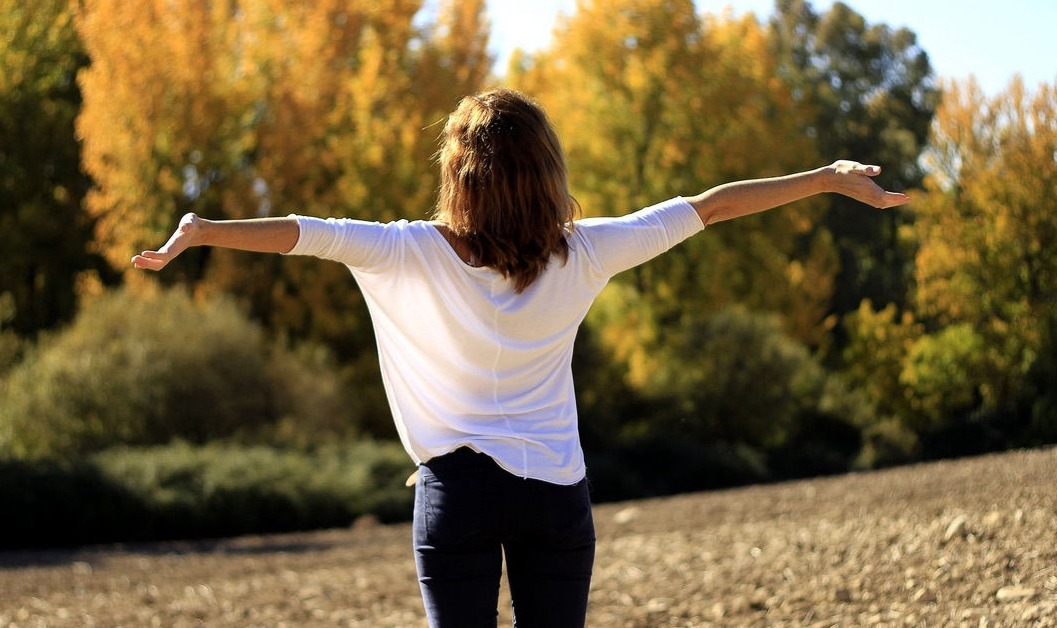
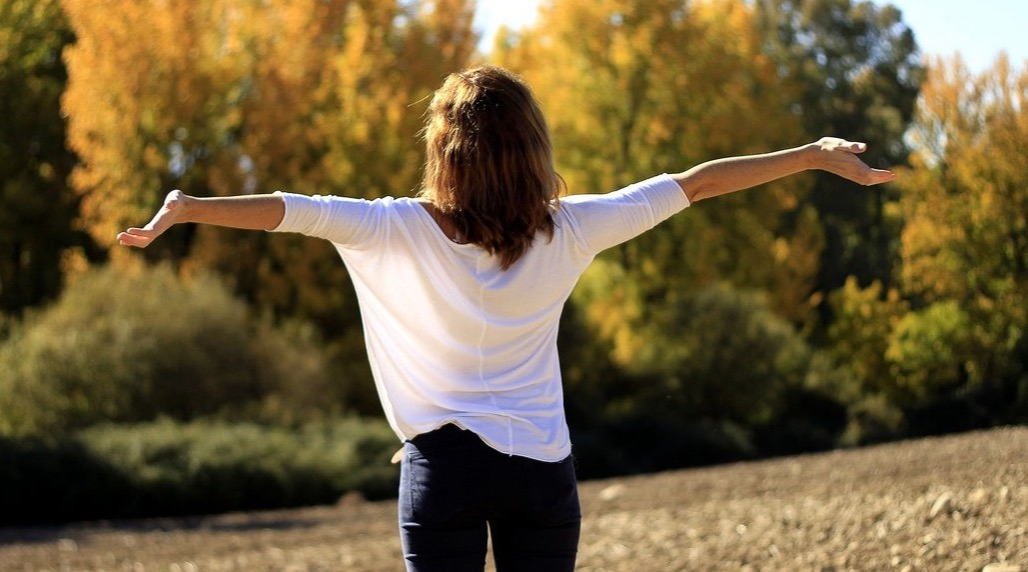
create github pages

diff --git a/index.html b/index.html
@@ -62,15 +62,15 @@ body{font-family: Poppins;}blockquote{border-color: #fe7902;}div[submit-success]
 					
 				<a href="https://www.facebook.com/DansenStem" target="_blank">
 						<div class="iconfont-wrapper">
-							<span class="amp-iconfont fa-facebook-square fa"><svg width="100%" height="100%" viewBox="0 0 1792 1792" xmlns="http://www.w3.org/2000/svg" fill="currentColor"><path d="M1376 128q119 0 203.5 84.5t84.5 203.5v960q0 119-84.5 203.5t-203.5 84.5h-188v-595h199l30-232h-229v-148q0-56 23.5-84t91.5-28l122-1v-207q-63-9-178-9-136 0-217.5 80t-81.5 226v171h-200v232h200v595h-532q-119 0-203.5-84.5t-84.5-203.5v-960q0-119 84.5-203.5t203.5-84.5h960z"></path></svg></span>
+							<span class="amp-iconfont fa-facebook-square fa"><svg width="24" height="24" viewBox="0 0 1792 1792" xmlns="http://www.w3.org/2000/svg" fill="currentColor"><path d="M1376 128q119 0 203.5 84.5t84.5 203.5v960q0 119-84.5 203.5t-203.5 84.5h-188v-595h199l30-232h-229v-148q0-56 23.5-84t91.5-28l122-1v-207q-63-9-178-9-136 0-217.5 80t-81.5 226v171h-200v232h200v595h-532q-119 0-203.5-84.5t-84.5-203.5v-960q0-119 84.5-203.5t203.5-84.5h960z"></path></svg></span>
 						</div>
 					</a><a href="https://www.instagram.com/petra_welboren/" target="_blank">
 						<div class="iconfont-wrapper">
-							<span class="amp-iconfont fa-instagram fa"><svg width="100%" height="100%" viewBox="0 0 1792 1792" xmlns="http://www.w3.org/2000/svg" fill="currentColor"><path d="M1152 896q0-106-75-181t-181-75-181 75-75 181 75 181 181 75 181-75 75-181zm138 0q0 164-115 279t-279 115-279-115-115-279 115-279 279-115 279 115 115 279zm108-410q0 38-27 65t-65 27-65-27-27-65 27-65 65-27 65 27 27 65zm-502-220q-7 0-76.5-.5t-105.5 0-96.5 3-103 10-71.5 18.5q-50 20-88 58t-58 88q-11 29-18.5 71.5t-10 103-3 96.5 0 105.5.5 76.5-.5 76.5 0 105.5 3 96.5 10 103 18.5 71.5q20 50 58 88t88 58q29 11 71.5 18.5t103 10 96.5 3 105.5 0 76.5-.5 76.5.5 105.5 0 96.5-3 103-10 71.5-18.5q50-20 88-58t58-88q11-29 18.5-71.5t10-103 3-96.5 0-105.5-.5-76.5.5-76.5 0-105.5-3-96.5-10-103-18.5-71.5q-20-50-58-88t-88-58q-29-11-71.5-18.5t-103-10-96.5-3-105.5 0-76.5.5zm768 630q0 229-5 317-10 208-124 322t-322 124q-88 5-317 5t-317-5q-208-10-322-124t-124-322q-5-88-5-317t5-317q10-208 124-322t322-124q88-5 317-5t317 5q208 10 322 124t124 322q5 88 5 317z"></path></svg></span>
+							<span class="amp-iconfont fa-instagram fa"><svg width="24" height="24" viewBox="0 0 1792 1792" xmlns="http://www.w3.org/2000/svg" fill="currentColor"><path d="M1152 896q0-106-75-181t-181-75-181 75-75 181 75 181 181 75 181-75 75-181zm138 0q0 164-115 279t-279 115-279-115-115-279 115-279 279-115 279 115 115 279zm108-410q0 38-27 65t-65 27-65-27-27-65 27-65 65-27 65 27 27 65zm-502-220q-7 0-76.5-.5t-105.5 0-96.5 3-103 10-71.5 18.5q-50 20-88 58t-58 88q-11 29-18.5 71.5t-10 103-3 96.5 0 105.5.5 76.5-.5 76.5 0 105.5 3 96.5 10 103 18.5 71.5q20 50 58 88t88 58q29 11 71.5 18.5t103 10 96.5 3 105.5 0 76.5-.5 76.5.5 105.5 0 96.5-3 103-10 71.5-18.5q50-20 88-58t58-88q11-29 18.5-71.5t10-103 3-96.5 0-105.5-.5-76.5.5-76.5 0-105.5-3-96.5-10-103-18.5-71.5q-20-50-58-88t-88-58q-29-11-71.5-18.5t-103-10-96.5-3-105.5 0-76.5.5zm768 630q0 229-5 317-10 208-124 322t-322 124q-88 5-317 5t-317-5q-208-10-322-124t-124-322q-5-88-5-317t5-317q10-208 124-322t322-124q88-5 317-5t317 5q208 10 322 124t124 322q5 88 5 317z"></path></svg></span>
 						</div>
 					</a><a href="https://www.linkedin.com/in/petra-welboren-7a86068/" target="_blank">
 						<div class="iconfont-wrapper">
-							<span class="amp-iconfont fa-linkedin-square fa"><svg width="100%" height="100%" viewBox="0 0 1792 1792" xmlns="http://www.w3.org/2000/svg" fill="currentColor"><path d="M365 1414h231v-694h-231v694zm246-908q-1-52-36-86t-93-34-94.5 34-36.5 86q0 51 35.5 85.5t92.5 34.5h1q59 0 95-34.5t36-85.5zm585 908h231v-398q0-154-73-233t-193-79q-136 0-209 117h2v-101h-231q3 66 0 694h231v-388q0-38 7-56 15-35 45-59.5t74-24.5q116 0 116 157v371zm468-998v960q0 119-84.5 203.5t-203.5 84.5h-960q-119 0-203.5-84.5t-84.5-203.5v-960q0-119 84.5-203.5t203.5-84.5h960q119 0 203.5 84.5t84.5 203.5z"></path></svg></span>
+							<span class="amp-iconfont fa-linkedin-square fa"><svg width="24" height="24" viewBox="0 0 1792 1792" xmlns="http://www.w3.org/2000/svg" fill="currentColor"><path d="M365 1414h231v-694h-231v694zm246-908q-1-52-36-86t-93-34-94.5 34-36.5 86q0 51 35.5 85.5t92.5 34.5h1q59 0 95-34.5t36-85.5zm585 908h231v-398q0-154-73-233t-193-79q-136 0-209 117h2v-101h-231q3 66 0 694h231v-388q0-38 7-56 15-35 45-59.5t74-24.5q116 0 116 157v371zm468-998v960q0 119-84.5 203.5t-203.5 84.5h-960q-119 0-203.5-84.5t-84.5-203.5v-960q0-119 84.5-203.5t203.5-84.5h960q119 0 203.5 84.5t84.5 203.5z"></path></svg></span>
 						</div>
 					</a></div>
 				<!-- SOCIAL ICON END -->
@@ -111,15 +111,15 @@ body{font-family: Poppins;}blockquote{border-color: #fe7902;}div[submit-success]
 					
 				<a href="https://www.facebook.com/DansenStem" target="_blank">
 						<div class="iconfont-wrapper">
-							<span class="amp-iconfont fa-facebook-square fa"><svg width="100%" height="100%" viewBox="0 0 1792 1792" xmlns="http://www.w3.org/2000/svg" fill="currentColor"><path d="M1376 128q119 0 203.5 84.5t84.5 203.5v960q0 119-84.5 203.5t-203.5 84.5h-188v-595h199l30-232h-229v-148q0-56 23.5-84t91.5-28l122-1v-207q-63-9-178-9-136 0-217.5 80t-81.5 226v171h-200v232h200v595h-532q-119 0-203.5-84.5t-84.5-203.5v-960q0-119 84.5-203.5t203.5-84.5h960z"></path></svg></span>
+							<span class="amp-iconfont fa-facebook-square fa"><svg width="24" height="24" viewBox="0 0 1792 1792" xmlns="http://www.w3.org/2000/svg" fill="currentColor"><path d="M1376 128q119 0 203.5 84.5t84.5 203.5v960q0 119-84.5 203.5t-203.5 84.5h-188v-595h199l30-232h-229v-148q0-56 23.5-84t91.5-28l122-1v-207q-63-9-178-9-136 0-217.5 80t-81.5 226v171h-200v232h200v595h-532q-119 0-203.5-84.5t-84.5-203.5v-960q0-119 84.5-203.5t203.5-84.5h960z"></path></svg></span>
 						</div>
 					</a><a href="https://www.instagram.com/petra_welboren/" target="_blank">
 						<div class="iconfont-wrapper">
-							<span class="amp-iconfont fa-instagram fa"><svg width="100%" height="100%" viewBox="0 0 1792 1792" xmlns="http://www.w3.org/2000/svg" fill="currentColor"><path d="M1152 896q0-106-75-181t-181-75-181 75-75 181 75 181 181 75 181-75 75-181zm138 0q0 164-115 279t-279 115-279-115-115-279 115-279 279-115 279 115 115 279zm108-410q0 38-27 65t-65 27-65-27-27-65 27-65 65-27 65 27 27 65zm-502-220q-7 0-76.5-.5t-105.5 0-96.5 3-103 10-71.5 18.5q-50 20-88 58t-58 88q-11 29-18.5 71.5t-10 103-3 96.5 0 105.5.5 76.5-.5 76.5 0 105.5 3 96.5 10 103 18.5 71.5q20 50 58 88t88 58q29 11 71.5 18.5t103 10 96.5 3 105.5 0 76.5-.5 76.5.5 105.5 0 96.5-3 103-10 71.5-18.5q50-20 88-58t58-88q11-29 18.5-71.5t10-103 3-96.5 0-105.5-.5-76.5.5-76.5 0-105.5-3-96.5-10-103-18.5-71.5q-20-50-58-88t-88-58q-29-11-71.5-18.5t-103-10-96.5-3-105.5 0-76.5.5zm768 630q0 229-5 317-10 208-124 322t-322 124q-88 5-317 5t-317-5q-208-10-322-124t-124-322q-5-88-5-317t5-317q10-208 124-322t322-124q88-5 317-5t317 5q208 10 322 124t124 322q5 88 5 317z"></path></svg></span>
+							<span class="amp-iconfont fa-instagram fa"><svg width="24" height="24" viewBox="0 0 1792 1792" xmlns="http://www.w3.org/2000/svg" fill="currentColor"><path d="M1152 896q0-106-75-181t-181-75-181 75-75 181 75 181 181 75 181-75 75-181zm138 0q0 164-115 279t-279 115-279-115-115-279 115-279 279-115 279 115 115 279zm108-410q0 38-27 65t-65 27-65-27-27-65 27-65 65-27 65 27 27 65zm-502-220q-7 0-76.5-.5t-105.5 0-96.5 3-103 10-71.5 18.5q-50 20-88 58t-58 88q-11 29-18.5 71.5t-10 103-3 96.5 0 105.5.5 76.5-.5 76.5 0 105.5 3 96.5 10 103 18.5 71.5q20 50 58 88t88 58q29 11 71.5 18.5t103 10 96.5 3 105.5 0 76.5-.5 76.5.5 105.5 0 96.5-3 103-10 71.5-18.5q50-20 88-58t58-88q11-29 18.5-71.5t10-103 3-96.5 0-105.5-.5-76.5.5-76.5 0-105.5-3-96.5-10-103-18.5-71.5q-20-50-58-88t-88-58q-29-11-71.5-18.5t-103-10-96.5-3-105.5 0-76.5.5zm768 630q0 229-5 317-10 208-124 322t-322 124q-88 5-317 5t-317-5q-208-10-322-124t-124-322q-5-88-5-317t5-317q10-208 124-322t322-124q88-5 317-5t317 5q208 10 322 124t124 322q5 88 5 317z"></path></svg></span>
 						</div>
 					</a><a href="https://www.linkedin.com/in/petra-welboren-7a86068/" target="_blank">
 						<div class="iconfont-wrapper">
-							<span class="amp-iconfont fa-linkedin-square fa"><svg width="100%" height="100%" viewBox="0 0 1792 1792" xmlns="http://www.w3.org/2000/svg" fill="currentColor"><path d="M365 1414h231v-694h-231v694zm246-908q-1-52-36-86t-93-34-94.5 34-36.5 86q0 51 35.5 85.5t92.5 34.5h1q59 0 95-34.5t36-85.5zm585 908h231v-398q0-154-73-233t-193-79q-136 0-209 117h2v-101h-231q3 66 0 694h231v-388q0-38 7-56 15-35 45-59.5t74-24.5q116 0 116 157v371zm468-998v960q0 119-84.5 203.5t-203.5 84.5h-960q-119 0-203.5-84.5t-84.5-203.5v-960q0-119 84.5-203.5t203.5-84.5h960q119 0 203.5 84.5t84.5 203.5z"></path></svg></span>
+							<span class="amp-iconfont fa-linkedin-square fa"><svg width="24" height="24" viewBox="0 0 1792 1792" xmlns="http://www.w3.org/2000/svg" fill="currentColor"><path d="M365 1414h231v-694h-231v694zm246-908q-1-52-36-86t-93-34-94.5 34-36.5 86q0 51 35.5 85.5t92.5 34.5h1q59 0 95-34.5t36-85.5zm585 908h231v-398q0-154-73-233t-193-79q-136 0-209 117h2v-101h-231q3 66 0 694h231v-388q0-38 7-56 15-35 45-59.5t74-24.5q116 0 116 157v371zm468-998v960q0 119-84.5 203.5t-203.5 84.5h-960q-119 0-203.5-84.5t-84.5-203.5v-960q0-119 84.5-203.5t203.5-84.5h960q119 0 203.5 84.5t84.5 203.5z"></path></svg></span>
 						</div>
 					</a></div>
 				<!-- SOCIAL ICON END -->
@@ -197,7 +197,7 @@ body{font-family: Poppins;}blockquote{border-color: #fe7902;}div[submit-success]
                     
                 </amp-img>
             </div><div class="image">
-                <amp-img class="carousel-img mobirise-loader" src="assets/images/inspiration-gc355157fe-1922-694x521.jpeg" layout="fill" alt="Mobirise" width="4.674220963172805" height="3">
+                <amp-img class="carousel-img mobirise-loader" src="assets/images/whatsapp-image-2023-07-07-at-15.58.03-1086x724.jpeg" layout="fill" alt="Mobirise" width="5.391608391608392" height="3">
                     <div class="mbr-overlay"></div>
                     <div class="container">
                         <h2 class="mbr-section-title align-center mbr-fonts-style mbr-bold mbr-white display-1">RUIMTE EN OVERVLOED</h2>

diff --git a/page14.html b/page14.html
@@ -63,15 +63,15 @@ body{font-family: Poppins;}blockquote{border-color: #fe7902;}div[submit-success]
 					
 				<a href="https://www.facebook.com/DansenStem" target="_blank">
 						<div class="iconfont-wrapper">
-							<span class="amp-iconfont fa-facebook-square fa"><svg width="24" height="24" viewBox="0 0 1792 1792" xmlns="http://www.w3.org/2000/svg" fill="currentColor"><path d="M1376 128q119 0 203.5 84.5t84.5 203.5v960q0 119-84.5 203.5t-203.5 84.5h-188v-595h199l30-232h-229v-148q0-56 23.5-84t91.5-28l122-1v-207q-63-9-178-9-136 0-217.5 80t-81.5 226v171h-200v232h200v595h-532q-119 0-203.5-84.5t-84.5-203.5v-960q0-119 84.5-203.5t203.5-84.5h960z"></path></svg></span>
+							<span class="amp-iconfont fa-facebook-square fa"><svg width="100%" height="100%" viewBox="0 0 1792 1792" xmlns="http://www.w3.org/2000/svg" fill="currentColor"><path d="M1376 128q119 0 203.5 84.5t84.5 203.5v960q0 119-84.5 203.5t-203.5 84.5h-188v-595h199l30-232h-229v-148q0-56 23.5-84t91.5-28l122-1v-207q-63-9-178-9-136 0-217.5 80t-81.5 226v171h-200v232h200v595h-532q-119 0-203.5-84.5t-84.5-203.5v-960q0-119 84.5-203.5t203.5-84.5h960z"></path></svg></span>
 						</div>
 					</a><a href="https://www.instagram.com/petra_welboren/" target="_blank">
 						<div class="iconfont-wrapper">
-							<span class="amp-iconfont fa-instagram fa"><svg width="24" height="24" viewBox="0 0 1792 1792" xmlns="http://www.w3.org/2000/svg" fill="currentColor"><path d="M1152 896q0-106-75-181t-181-75-181 75-75 181 75 181 181 75 181-75 75-181zm138 0q0 164-115 279t-279 115-279-115-115-279 115-279 279-115 279 115 115 279zm108-410q0 38-27 65t-65 27-65-27-27-65 27-65 65-27 65 27 27 65zm-502-220q-7 0-76.5-.5t-105.5 0-96.5 3-103 10-71.5 18.5q-50 20-88 58t-58 88q-11 29-18.5 71.5t-10 103-3 96.5 0 105.5.5 76.5-.5 76.5 0 105.5 3 96.5 10 103 18.5 71.5q20 50 58 88t88 58q29 11 71.5 18.5t103 10 96.5 3 105.5 0 76.5-.5 76.5.5 105.5 0 96.5-3 103-10 71.5-18.5q50-20 88-58t58-88q11-29 18.5-71.5t10-103 3-96.5 0-105.5-.5-76.5.5-76.5 0-105.5-3-96.5-10-103-18.5-71.5q-20-50-58-88t-88-58q-29-11-71.5-18.5t-103-10-96.5-3-105.5 0-76.5.5zm768 630q0 229-5 317-10 208-124 322t-322 124q-88 5-317 5t-317-5q-208-10-322-124t-124-322q-5-88-5-317t5-317q10-208 124-322t322-124q88-5 317-5t317 5q208 10 322 124t124 322q5 88 5 317z"></path></svg></span>
+							<span class="amp-iconfont fa-instagram fa"><svg width="100%" height="100%" viewBox="0 0 1792 1792" xmlns="http://www.w3.org/2000/svg" fill="currentColor"><path d="M1152 896q0-106-75-181t-181-75-181 75-75 181 75 181 181 75 181-75 75-181zm138 0q0 164-115 279t-279 115-279-115-115-279 115-279 279-115 279 115 115 279zm108-410q0 38-27 65t-65 27-65-27-27-65 27-65 65-27 65 27 27 65zm-502-220q-7 0-76.5-.5t-105.5 0-96.5 3-103 10-71.5 18.5q-50 20-88 58t-58 88q-11 29-18.5 71.5t-10 103-3 96.5 0 105.5.5 76.5-.5 76.5 0 105.5 3 96.5 10 103 18.5 71.5q20 50 58 88t88 58q29 11 71.5 18.5t103 10 96.5 3 105.5 0 76.5-.5 76.5.5 105.5 0 96.5-3 103-10 71.5-18.5q50-20 88-58t58-88q11-29 18.5-71.5t10-103 3-96.5 0-105.5-.5-76.5.5-76.5 0-105.5-3-96.5-10-103-18.5-71.5q-20-50-58-88t-88-58q-29-11-71.5-18.5t-103-10-96.5-3-105.5 0-76.5.5zm768 630q0 229-5 317-10 208-124 322t-322 124q-88 5-317 5t-317-5q-208-10-322-124t-124-322q-5-88-5-317t5-317q10-208 124-322t322-124q88-5 317-5t317 5q208 10 322 124t124 322q5 88 5 317z"></path></svg></span>
 						</div>
 					</a><a href="https://www.linkedin.com/in/petra-welboren-7a86068/" target="_blank">
 						<div class="iconfont-wrapper">
-							<span class="amp-iconfont fa-linkedin-square fa"><svg width="24" height="24" viewBox="0 0 1792 1792" xmlns="http://www.w3.org/2000/svg" fill="currentColor"><path d="M365 1414h231v-694h-231v694zm246-908q-1-52-36-86t-93-34-94.5 34-36.5 86q0 51 35.5 85.5t92.5 34.5h1q59 0 95-34.5t36-85.5zm585 908h231v-398q0-154-73-233t-193-79q-136 0-209 117h2v-101h-231q3 66 0 694h231v-388q0-38 7-56 15-35 45-59.5t74-24.5q116 0 116 157v371zm468-998v960q0 119-84.5 203.5t-203.5 84.5h-960q-119 0-203.5-84.5t-84.5-203.5v-960q0-119 84.5-203.5t203.5-84.5h960q119 0 203.5 84.5t84.5 203.5z"></path></svg></span>
+							<span class="amp-iconfont fa-linkedin-square fa"><svg width="100%" height="100%" viewBox="0 0 1792 1792" xmlns="http://www.w3.org/2000/svg" fill="currentColor"><path d="M365 1414h231v-694h-231v694zm246-908q-1-52-36-86t-93-34-94.5 34-36.5 86q0 51 35.5 85.5t92.5 34.5h1q59 0 95-34.5t36-85.5zm585 908h231v-398q0-154-73-233t-193-79q-136 0-209 117h2v-101h-231q3 66 0 694h231v-388q0-38 7-56 15-35 45-59.5t74-24.5q116 0 116 157v371zm468-998v960q0 119-84.5 203.5t-203.5 84.5h-960q-119 0-203.5-84.5t-84.5-203.5v-960q0-119 84.5-203.5t203.5-84.5h960q119 0 203.5 84.5t84.5 203.5z"></path></svg></span>
 						</div>
 					</a></div>
 				<!-- SOCIAL ICON END -->
@@ -112,15 +112,15 @@ body{font-family: Poppins;}blockquote{border-color: #fe7902;}div[submit-success]
 					
 				<a href="https://www.facebook.com/DansenStem" target="_blank">
 						<div class="iconfont-wrapper">
-							<span class="amp-iconfont fa-facebook-square fa"><svg width="24" height="24" viewBox="0 0 1792 1792" xmlns="http://www.w3.org/2000/svg" fill="currentColor"><path d="M1376 128q119 0 203.5 84.5t84.5 203.5v960q0 119-84.5 203.5t-203.5 84.5h-188v-595h199l30-232h-229v-148q0-56 23.5-84t91.5-28l122-1v-207q-63-9-178-9-136 0-217.5 80t-81.5 226v171h-200v232h200v595h-532q-119 0-203.5-84.5t-84.5-203.5v-960q0-119 84.5-203.5t203.5-84.5h960z"></path></svg></span>
+							<span class="amp-iconfont fa-facebook-square fa"><svg width="100%" height="100%" viewBox="0 0 1792 1792" xmlns="http://www.w3.org/2000/svg" fill="currentColor"><path d="M1376 128q119 0 203.5 84.5t84.5 203.5v960q0 119-84.5 203.5t-203.5 84.5h-188v-595h199l30-232h-229v-148q0-56 23.5-84t91.5-28l122-1v-207q-63-9-178-9-136 0-217.5 80t-81.5 226v171h-200v232h200v595h-532q-119 0-203.5-84.5t-84.5-203.5v-960q0-119 84.5-203.5t203.5-84.5h960z"></path></svg></span>
 						</div>
 					</a><a href="https://www.instagram.com/petra_welboren/" target="_blank">
 						<div class="iconfont-wrapper">
-							<span class="amp-iconfont fa-instagram fa"><svg width="24" height="24" viewBox="0 0 1792 1792" xmlns="http://www.w3.org/2000/svg" fill="currentColor"><path d="M1152 896q0-106-75-181t-181-75-181 75-75 181 75 181 181 75 181-75 75-181zm138 0q0 164-115 279t-279 115-279-115-115-279 115-279 279-115 279 115 115 279zm108-410q0 38-27 65t-65 27-65-27-27-65 27-65 65-27 65 27 27 65zm-502-220q-7 0-76.5-.5t-105.5 0-96.5 3-103 10-71.5 18.5q-50 20-88 58t-58 88q-11 29-18.5 71.5t-10 103-3 96.5 0 105.5.5 76.5-.5 76.5 0 105.5 3 96.5 10 103 18.5 71.5q20 50 58 88t88 58q29 11 71.5 18.5t103 10 96.5 3 105.5 0 76.5-.5 76.5.5 105.5 0 96.5-3 103-10 71.5-18.5q50-20 88-58t58-88q11-29 18.5-71.5t10-103 3-96.5 0-105.5-.5-76.5.5-76.5 0-105.5-3-96.5-10-103-18.5-71.5q-20-50-58-88t-88-58q-29-11-71.5-18.5t-103-10-96.5-3-105.5 0-76.5.5zm768 630q0 229-5 317-10 208-124 322t-322 124q-88 5-317 5t-317-5q-208-10-322-124t-124-322q-5-88-5-317t5-317q10-208 124-322t322-124q88-5 317-5t317 5q208 10 322 124t124 322q5 88 5 317z"></path></svg></span>
+							<span class="amp-iconfont fa-instagram fa"><svg width="100%" height="100%" viewBox="0 0 1792 1792" xmlns="http://www.w3.org/2000/svg" fill="currentColor"><path d="M1152 896q0-106-75-181t-181-75-181 75-75 181 75 181 181 75 181-75 75-181zm138 0q0 164-115 279t-279 115-279-115-115-279 115-279 279-115 279 115 115 279zm108-410q0 38-27 65t-65 27-65-27-27-65 27-65 65-27 65 27 27 65zm-502-220q-7 0-76.5-.5t-105.5 0-96.5 3-103 10-71.5 18.5q-50 20-88 58t-58 88q-11 29-18.5 71.5t-10 103-3 96.5 0 105.5.5 76.5-.5 76.5 0 105.5 3 96.5 10 103 18.5 71.5q20 50 58 88t88 58q29 11 71.5 18.5t103 10 96.5 3 105.5 0 76.5-.5 76.5.5 105.5 0 96.5-3 103-10 71.5-18.5q50-20 88-58t58-88q11-29 18.5-71.5t10-103 3-96.5 0-105.5-.5-76.5.5-76.5 0-105.5-3-96.5-10-103-18.5-71.5q-20-50-58-88t-88-58q-29-11-71.5-18.5t-103-10-96.5-3-105.5 0-76.5.5zm768 630q0 229-5 317-10 208-124 322t-322 124q-88 5-317 5t-317-5q-208-10-322-124t-124-322q-5-88-5-317t5-317q10-208 124-322t322-124q88-5 317-5t317 5q208 10 322 124t124 322q5 88 5 317z"></path></svg></span>
 						</div>
 					</a><a href="https://www.linkedin.com/in/petra-welboren-7a86068/" target="_blank">
 						<div class="iconfont-wrapper">
-							<span class="amp-iconfont fa-linkedin-square fa"><svg width="24" height="24" viewBox="0 0 1792 1792" xmlns="http://www.w3.org/2000/svg" fill="currentColor"><path d="M365 1414h231v-694h-231v694zm246-908q-1-52-36-86t-93-34-94.5 34-36.5 86q0 51 35.5 85.5t92.5 34.5h1q59 0 95-34.5t36-85.5zm585 908h231v-398q0-154-73-233t-193-79q-136 0-209 117h2v-101h-231q3 66 0 694h231v-388q0-38 7-56 15-35 45-59.5t74-24.5q116 0 116 157v371zm468-998v960q0 119-84.5 203.5t-203.5 84.5h-960q-119 0-203.5-84.5t-84.5-203.5v-960q0-119 84.5-203.5t203.5-84.5h960q119 0 203.5 84.5t84.5 203.5z"></path></svg></span>
+							<span class="amp-iconfont fa-linkedin-square fa"><svg width="100%" height="100%" viewBox="0 0 1792 1792" xmlns="http://www.w3.org/2000/svg" fill="currentColor"><path d="M365 1414h231v-694h-231v694zm246-908q-1-52-36-86t-93-34-94.5 34-36.5 86q0 51 35.5 85.5t92.5 34.5h1q59 0 95-34.5t36-85.5zm585 908h231v-398q0-154-73-233t-193-79q-136 0-209 117h2v-101h-231q3 66 0 694h231v-388q0-38 7-56 15-35 45-59.5t74-24.5q116 0 116 157v371zm468-998v960q0 119-84.5 203.5t-203.5 84.5h-960q-119 0-203.5-84.5t-84.5-203.5v-960q0-119 84.5-203.5t203.5-84.5h960q119 0 203.5 84.5t84.5 203.5z"></path></svg></span>
 						</div>
 					</a></div>
 				<!-- SOCIAL ICON END -->

diff --git a/page7.html b/page7.html
@@ -173,7 +173,7 @@ body{font-family: Poppins;}blockquote{border-color: #fe7902;}div[submit-success]
             </div>
             <div class="second-element mbr-col-md-12 mbr-col-sm-12 mbr-column mbr-flex mbr-jc-c mbr-col-lg-8 mbr-m-auto">
                 <div class="form-block" data-form-type="formoid">
-                    <form class="mbr-form mbr-jc-c mbr-flex mbr-column" method="post" target="_top" action-xhr="https://formoid.net/api/amp-form/push" data-form-title="Mobirise Form" id="myFormcontacts226" on="submit:myFormcontacts226.clear;submit-success:AMP.setState({myStatecontacts226:{formdata01contacts226:{stateformdata01contacts226: '', valueformdata01contacts226: ''}, formdata21contacts226:{stateformdata21contacts226: '', valueformdata21contacts226: ''}, formdata31contacts226:{stateformdata31contacts226: '', valueformdata31contacts226: ''}, formdata41contacts226:{stateformdata41contacts226: '', valueformdata41contacts226: ''}}});submit-error:AMP.setState({myStatecontacts226:{formdata01contacts226:{stateformdata01contacts226: myStatecontacts226.formdata01contacts226.valueformdata01contacts226}, formdata21contacts226:{stateformdata21contacts226: myStatecontacts226.formdata21contacts226.valueformdata21contacts226}, formdata31contacts226:{stateformdata31contacts226: myStatecontacts226.formdata31contacts226.valueformdata31contacts226}, formdata41contacts226:{stateformdata41contacts226: myStatecontacts226.formdata41contacts226.valueformdata41contacts226}}})"><amp-state id="myStatecontacts226"><script type="application/json"> {"formdata01contacts226":{ "stateformdata01contacts226": "", "valueformdata01contacts226": ""},"formdata21contacts226":{ "stateformdata21contacts226": "", "valueformdata21contacts226": ""},"formdata31contacts226":{ "stateformdata31contacts226": "", "valueformdata31contacts226": ""},"formdata41contacts226":{ "stateformdata41contacts226": "", "valueformdata41contacts226": ""}}</script></amp-state><input type="hidden" name="email" data-form-email="true" value="jvqXPabrfcoOsOqz3ZHdIuZmeptGXmHkD4cpb6SIErqInDJzUbxJB4Ocyl0WHMc1WhSjHkwnFJz9jyyGRgqEloVLGsDyumXhYZytOAHZ3zI2xDMe2A03VAzEpHU5I6M/.nZeth85rG+WY3qQjOuWpWQ3J52QQuzzkUbMd8fNdrJR/j+VZS6gSvzMrO91aDp0g9Kc9JegiTPvtQ/hs347SpL6ktCRHwWRvWR7ofjdn1K6GoFzZVQwQ/LTyqRxq4Jjn">
+                    <form class="mbr-form mbr-jc-c mbr-flex mbr-column" method="post" target="_top" action-xhr="https://formoid.net/api/amp-form/push" data-form-title="Mobirise Form" id="myFormcontacts226" on="submit:myFormcontacts226.clear;submit-success:AMP.setState({myStatecontacts226:{formdata01contacts226:{stateformdata01contacts226: '', valueformdata01contacts226: ''}, formdata21contacts226:{stateformdata21contacts226: '', valueformdata21contacts226: ''}, formdata31contacts226:{stateformdata31contacts226: '', valueformdata31contacts226: ''}, formdata41contacts226:{stateformdata41contacts226: '', valueformdata41contacts226: ''}}});submit-error:AMP.setState({myStatecontacts226:{formdata01contacts226:{stateformdata01contacts226: myStatecontacts226.formdata01contacts226.valueformdata01contacts226}, formdata21contacts226:{stateformdata21contacts226: myStatecontacts226.formdata21contacts226.valueformdata21contacts226}, formdata31contacts226:{stateformdata31contacts226: myStatecontacts226.formdata31contacts226.valueformdata31contacts226}, formdata41contacts226:{stateformdata41contacts226: myStatecontacts226.formdata41contacts226.valueformdata41contacts226}}})"><amp-state id="myStatecontacts226"><script type="application/json"> {"formdata01contacts226":{ "stateformdata01contacts226": "", "valueformdata01contacts226": ""},"formdata21contacts226":{ "stateformdata21contacts226": "", "valueformdata21contacts226": ""},"formdata31contacts226":{ "stateformdata31contacts226": "", "valueformdata31contacts226": ""},"formdata41contacts226":{ "stateformdata41contacts226": "", "valueformdata41contacts226": ""}}</script></amp-state><input type="hidden" name="email" data-form-email="true" value="hE4M8RsWbLCL1vnv8NCh9vjKDbsykw35kj+3nJuTBcSnJZKBhz1YzrftnArO+YAhLg1K2t7POigyKf1QeZX0hcSA4JX2GfLO/5M/QdM0XaptYFASK6gETYC9jPQ6SNCY.YZmeqZJe+Qq0zeNjcUQ318YgJQw8SyLHIdD2KtVkdbacpP6yqEK2sI2985/nXNz7ePPyFGKEfUJDDnqZA2xKPYdRcPu/yvAK4BcCRTpLNpBgZruX4YSeWlIEiccV9lks">
                         
                         <div class="mbr-row">
                           <div submit-success="" class="mbr-col-sm-12 mbr-col-md-12">
